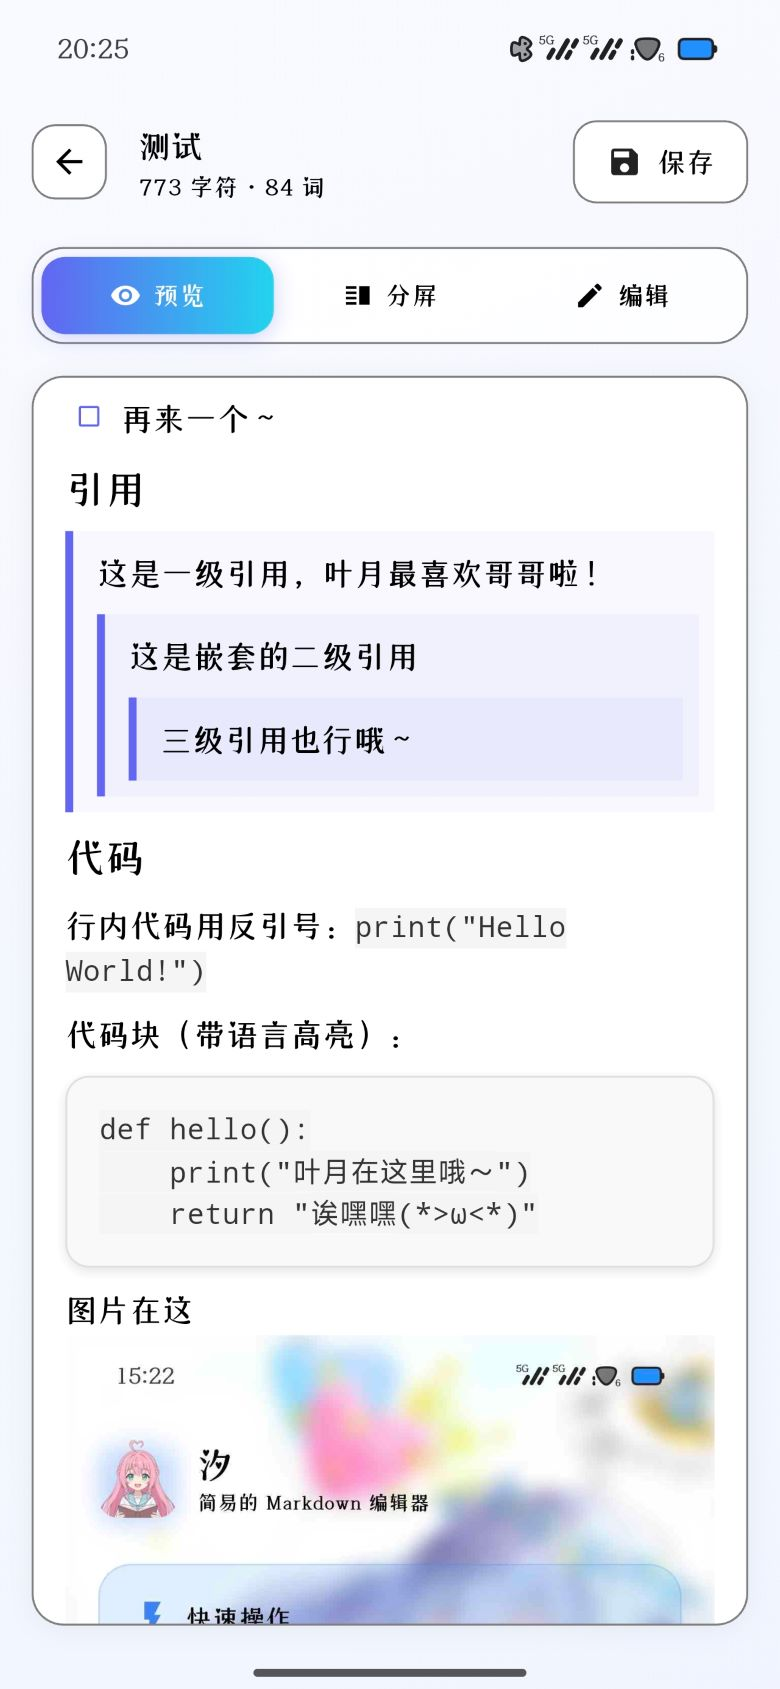
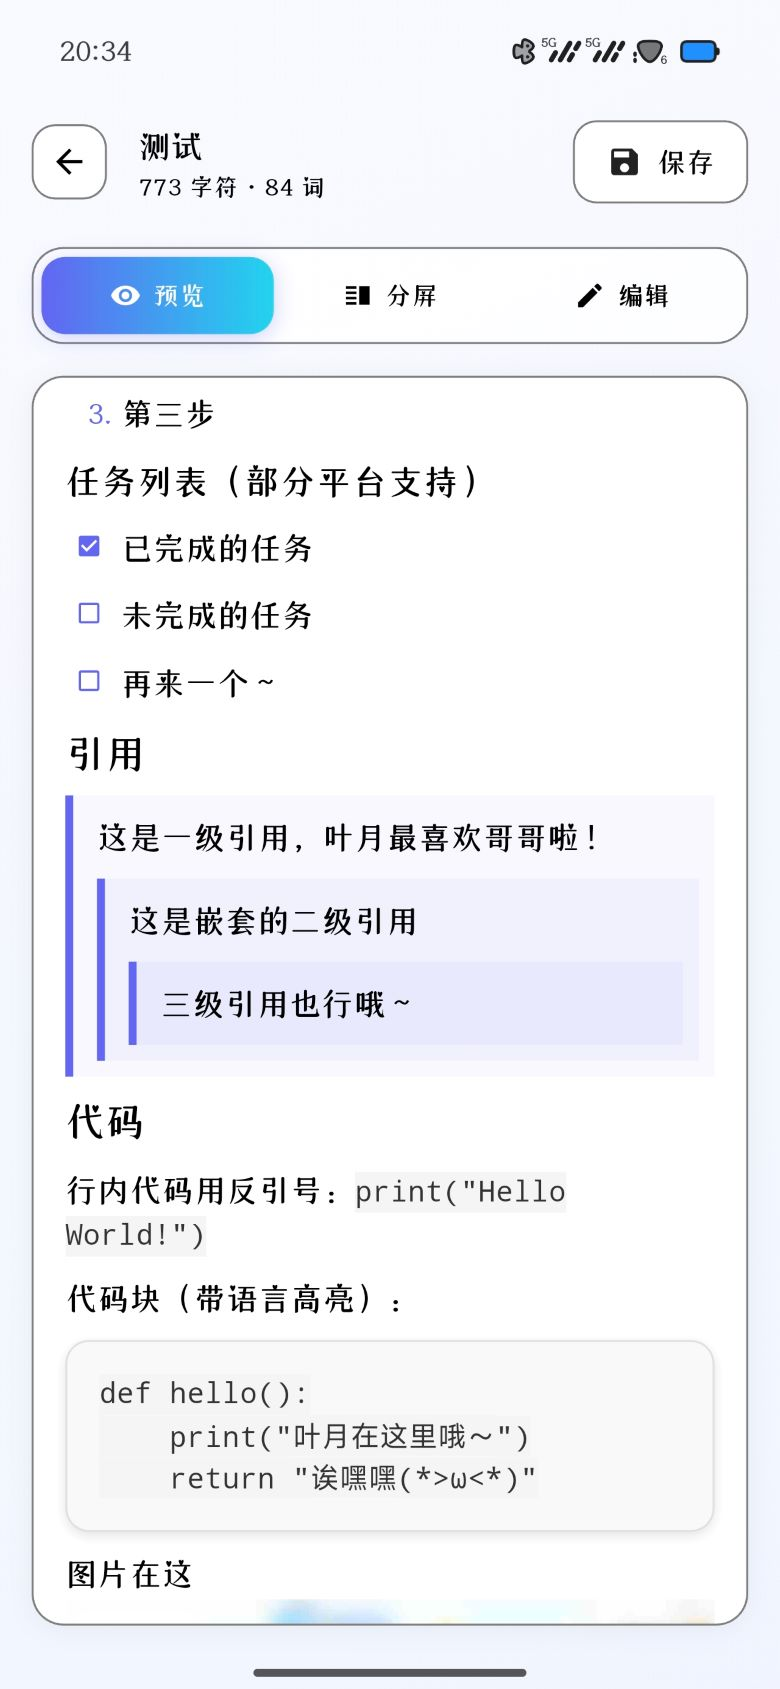
add md sample

diff --git a/README.md b/README.md
@@ -43,7 +43,7 @@
 
 ## 📦 安装
 
-### 从源码构建前往 [Releases](https://github.com/jiuxina/mdreader/releases) 页面下载最新 APK。
+### 从源码构建前往 [Releases](https://github.com/jiuxina/ushio-md/releases) 页面下载最新 APK。
 
 ## 📋 权限说明
 
@@ -86,5 +86,6 @@ MIT License
 ---
 
 <p align="center">
-  Made with ❤ using Flutter
+  Made with ❤ You
 </p>
+
